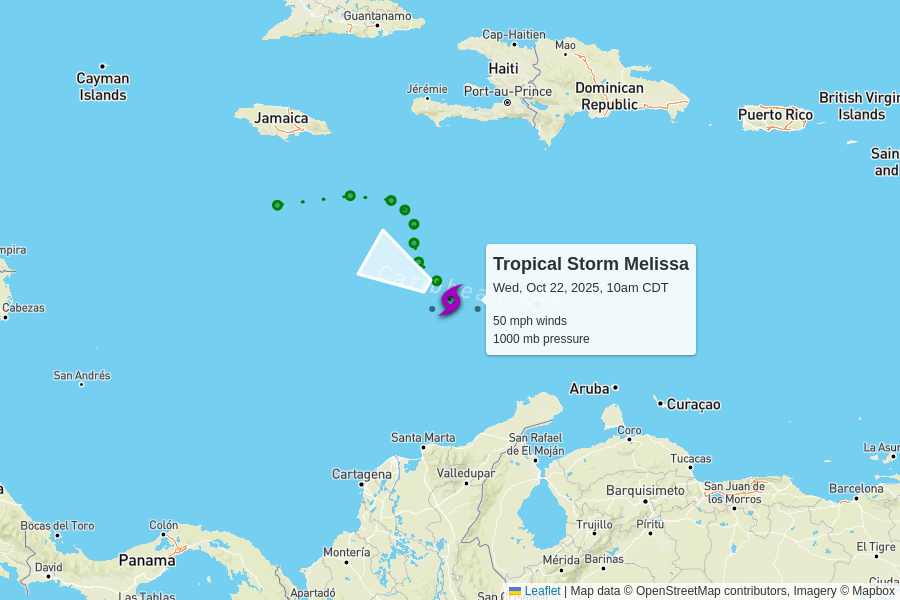
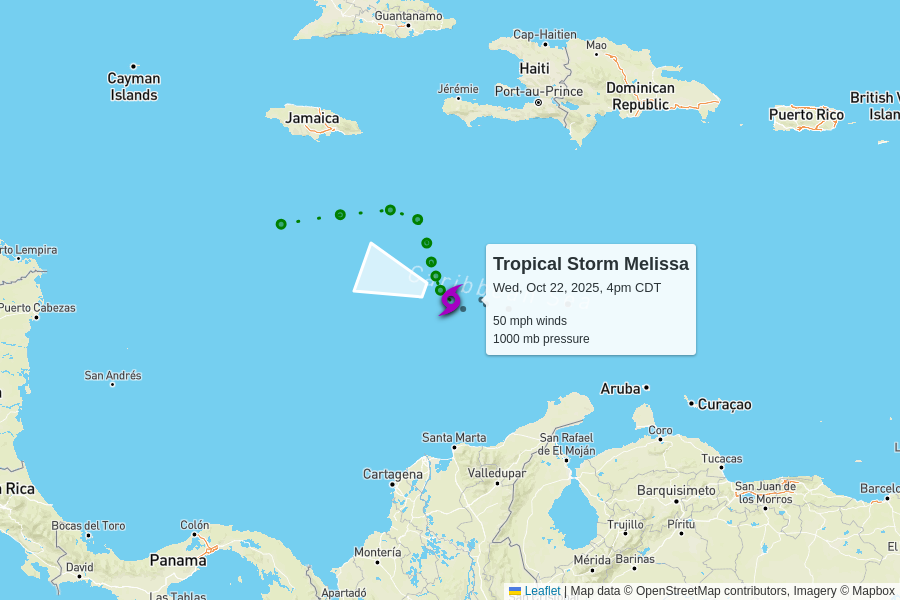
automatic update

diff --git a/docs/index.html b/docs/index.html
@@ -102,7 +102,7 @@
         <td colspan="6" class="storm category-0" >
           <h2>
             Tropical Storm Melissa
-            <p class="updated">last updated <span data-time>2025-10-22T15:00:00.000Z</span></p>
+            <p class="updated">last updated <span data-time>2025-10-22T21:00:00.000Z</span></p>
           </h2>
         </td>
       </tr>
@@ -122,7 +122,7 @@
         <td>
           2 mph to the west-northwest
           <br/>
-          <span style="display: inline-block; font-size: 1.5em; transform: rotate(300deg);">↑</span>
+          <span style="display: inline-block; font-size: 1.5em; transform: rotate(290deg);">↑</span>
         </td>
         <td><a href="https://raw.githubusercontent.com/mgwalker/atlantic-hurricanes/main/data/csv/AL132025.csv">AL132025.csv</a></td>
         <td><a href="https://www.nhc.noaa.gov/archive/2025/MELISSA.shtml?">NHC advisories</a></td>
